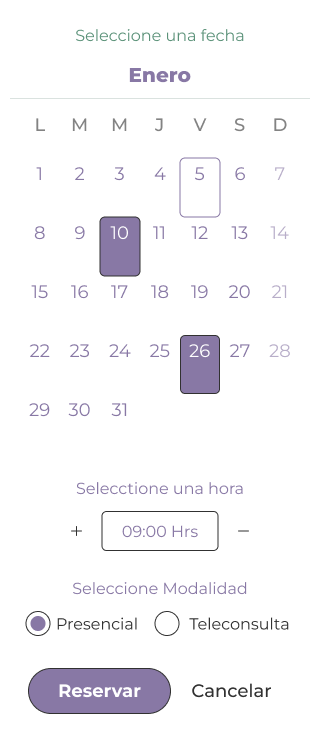
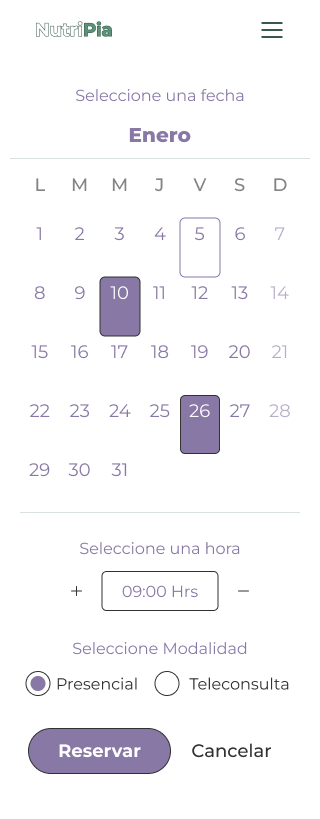
calendar mobile template finished

diff --git a/src/app/pages/schedule/components/calendar/calendar.component.ts b/src/app/pages/schedule/components/calendar/calendar.component.ts
@@ -13,7 +13,6 @@ import {
 import { CalendarButtonComponent } from '../calendar-button/calendar-button.component';
 import { CalendarButtonState } from '../calendar-button/utils';
 import { Subscription } from 'rxjs';
-import { CustomInputComponent } from '../../../../shared/custom-input/custom-input.component';
 
 interface DayObject {
   state: CalendarButtonState;
@@ -21,7 +20,7 @@ interface DayObject {
 }
 @Component({
   selector: 'nt-calendar',
-  imports: [CalendarButtonComponent, CustomInputComponent],
+  imports: [CalendarButtonComponent],
   templateUrl: './calendar.component.html',
 })
 export class CalendarComponent {
@@ -32,28 +31,37 @@ export class CalendarComponent {
   threeLetterWeekDay = THREE_LETTER_WEEKDAY;
   singleLetterWeekDay = SINGLE_LETTER_WEEK_DAY;
   monthNames = [...MONTH_NAMES];
-  fullDays = [14, 23, 10];
+  fullDays = [14, 23, 10]; // TODO: get this from a service
   selectedDayIndex: WritableSignal<number> = signal(-1);
   daysOfTheMonth: WritableSignal<DayObject[]> = signal(this.getDaysInMonth());
   cdr = inject(ChangeDetectorRef);
 
   selectADay(newIndex: number) {
+    const oldIndex = this.selectedDayIndex();
     /*
-     * condition to know is the last index had a state of full or an undefined index(-1)
+     * condition to know is the last index had a state of full or if its the same index
      * if this is true, then the selected button is updated if not its not touched
      */
-    if (this.daysOfTheMonth()[newIndex].state !== 'full') {
-      const oldIndex = this.selectedDayIndex();
-
+    if (
+      this.daysOfTheMonth()[newIndex].state !== 'full' &&
+      oldIndex !== newIndex
+    ) {
       this.daysOfTheMonth.update((prev: DayObject[]) => {
         const current: DayObject[] = [...prev];
+        /*
+         * -1 is used as an null value
+         * if the value is null the state is not gonna be updated
+         */
         if (oldIndex !== -1) {
           current[oldIndex].state = 'normal';
         }
+        /*
+         * change the state of the desire day to 'selected'
+         */
         current[newIndex].state = 'selected';
         return [...current];
       });
-      this.selectedDayIndex.set(newIndex);
+      this.selectedDayIndex.set(newIndex); // update the signal
     }
   }
   renderNextMonth() {
@@ -64,14 +72,13 @@ export class CalendarComponent {
   renderPreviousMonth() {}
   getDaysInMonth(): DayObject[] {
     /*
-     * TODO: create a variable that checks if the day is taken
      * getting info from external api will be needed
      *
-     *  the 0 in Date objects represent the last day
-        of the previous month, this returns the amount of days.
-        months in js start at 0, so saying the 0 day in month 1
-        equals to the last day in january
-    */
+     * the 0 in Date objects represent the last day
+     * of the previous month, this returns the amount of days.
+     * months in js start at 0, so saying the 0 day in month 1
+     * equals to the last day in january
+     **/
     const lastDayOfSelectedDays = new Date(
       this.year(),
       this.month() + 1,
@@ -114,12 +121,9 @@ export class CalendarComponent {
       { length: lastDayOfSelectedDays },
       (_, index) =>
         ({
-          state:
-            this.selectedDayIndex() === index
-              ? 'selected'
-              : this.fullDays.includes(index + 1)
-                ? 'full'
-                : 'normal',
+          state: this.fullDays.includes(index + 1) // check for full days and mark them as not available
+            ? 'full'
+            : 'normal',
           numberDay: index + 1,
         }) as DayObject,
     );

diff --git a/src/app/pages/schedule/schedule.page.html b/src/app/pages/schedule/schedule.page.html
@@ -11,18 +11,28 @@
       <button class="text-3xl text-charcoal font-light">-</button>
     </div>
   </div>
-  <div class="space-y-3 mt-6 flex flex-col items-center">
+  <div class="space-y-4 mt-6 flex flex-col items-center">
     <h2 class="text-lg text-primary-purple">Seleccione modalidad</h2>
     <div class="flex space-x-6">
-      <button class="flex items-center justify-center space-x-2">
+      <button
+        (click)="appointmentIsNotOnline()"
+        class="flex items-center justify-center space-x-2"
+      >
         <span class="border border-primary-purple rounded-full p-1 flex">
-          <span class="p-2.5 bg-white rounded-full"></span>
+          <span
+            [ngClass]="isAppointmentOnline ? notSelectedClass : selectedClass"
+          ></span>
         </span>
         <p class="text-charcoal">Presencial</p>
       </button>
-      <button class="flex items-center justify-center space-x-2">
+      <button
+        (click)="appointmentIsOnline()"
+        class="flex items-center justify-center space-x-2"
+      >
         <span class="border border-primary-purple rounded-full p-1 flex">
-          <span class="p-2.5 bg-primary-purple rounded-full"></span>
+          <span
+            [ngClass]="isAppointmentOnline ? selectedClass : notSelectedClass"
+          ></span>
         </span>
         <p class="text-charcoal">Teleconsulta</p>
       </button>

diff --git a/src/app/pages/schedule/schedule.page.ts b/src/app/pages/schedule/schedule.page.ts
@@ -1,9 +1,22 @@
 import { Component } from '@angular/core';
 import { CalendarComponent } from './components/calendar/calendar.component';
+import { NgClass } from '@angular/common';
 
 @Component({
   selector: 'nt-schedule-page',
-  imports: [CalendarComponent],
+  imports: [CalendarComponent, NgClass],
   templateUrl: './schedule.page.html',
 })
-export class SchedulePage {}
+export class SchedulePage {
+  //TODO: for testing purporses only
+  protected isAppointmentOnline = false;
+  selectedClass = 'p-2.5 bg-primary-purple rounded-full';
+  notSelectedClass = 'p-2.5 bg-white rounded-full';
+
+  appointmentIsOnline() {
+    this.isAppointmentOnline = true;
+  }
+  appointmentIsNotOnline() {
+    this.isAppointmentOnline = false;
+  }
+}

diff --git a/src/app/pages/schedule/components/calendar-button/calendar-button.component.ts b/src/app/pages/schedule/components/calendar-button/calendar-button.component.ts
@@ -11,7 +11,7 @@ export class CalendarButtonComponent {
   day = input.required<number>();
   state = input();
   baseStyles =
-    'h-20 w-full pt-1 text-lg font-medium rounded-lg flex justify-start flex justify-center items-start lg:hover:cursor-pointer';
+    'h-[70px] w-full pt-1 text-lg font-medium rounded-lg flex justify-start flex justify-center items-start lg:hover:cursor-pointer';
   takenSyles = `${this.baseStyles} bg-primary-purple text-white border border-charcoal`;
   normalStyles = `${this.baseStyles} bg-white text-primary-purple`;
   selectedStyles = `${this.baseStyles} bg-white border border-primary-purple text-primary-purple border border-charcoal`;
